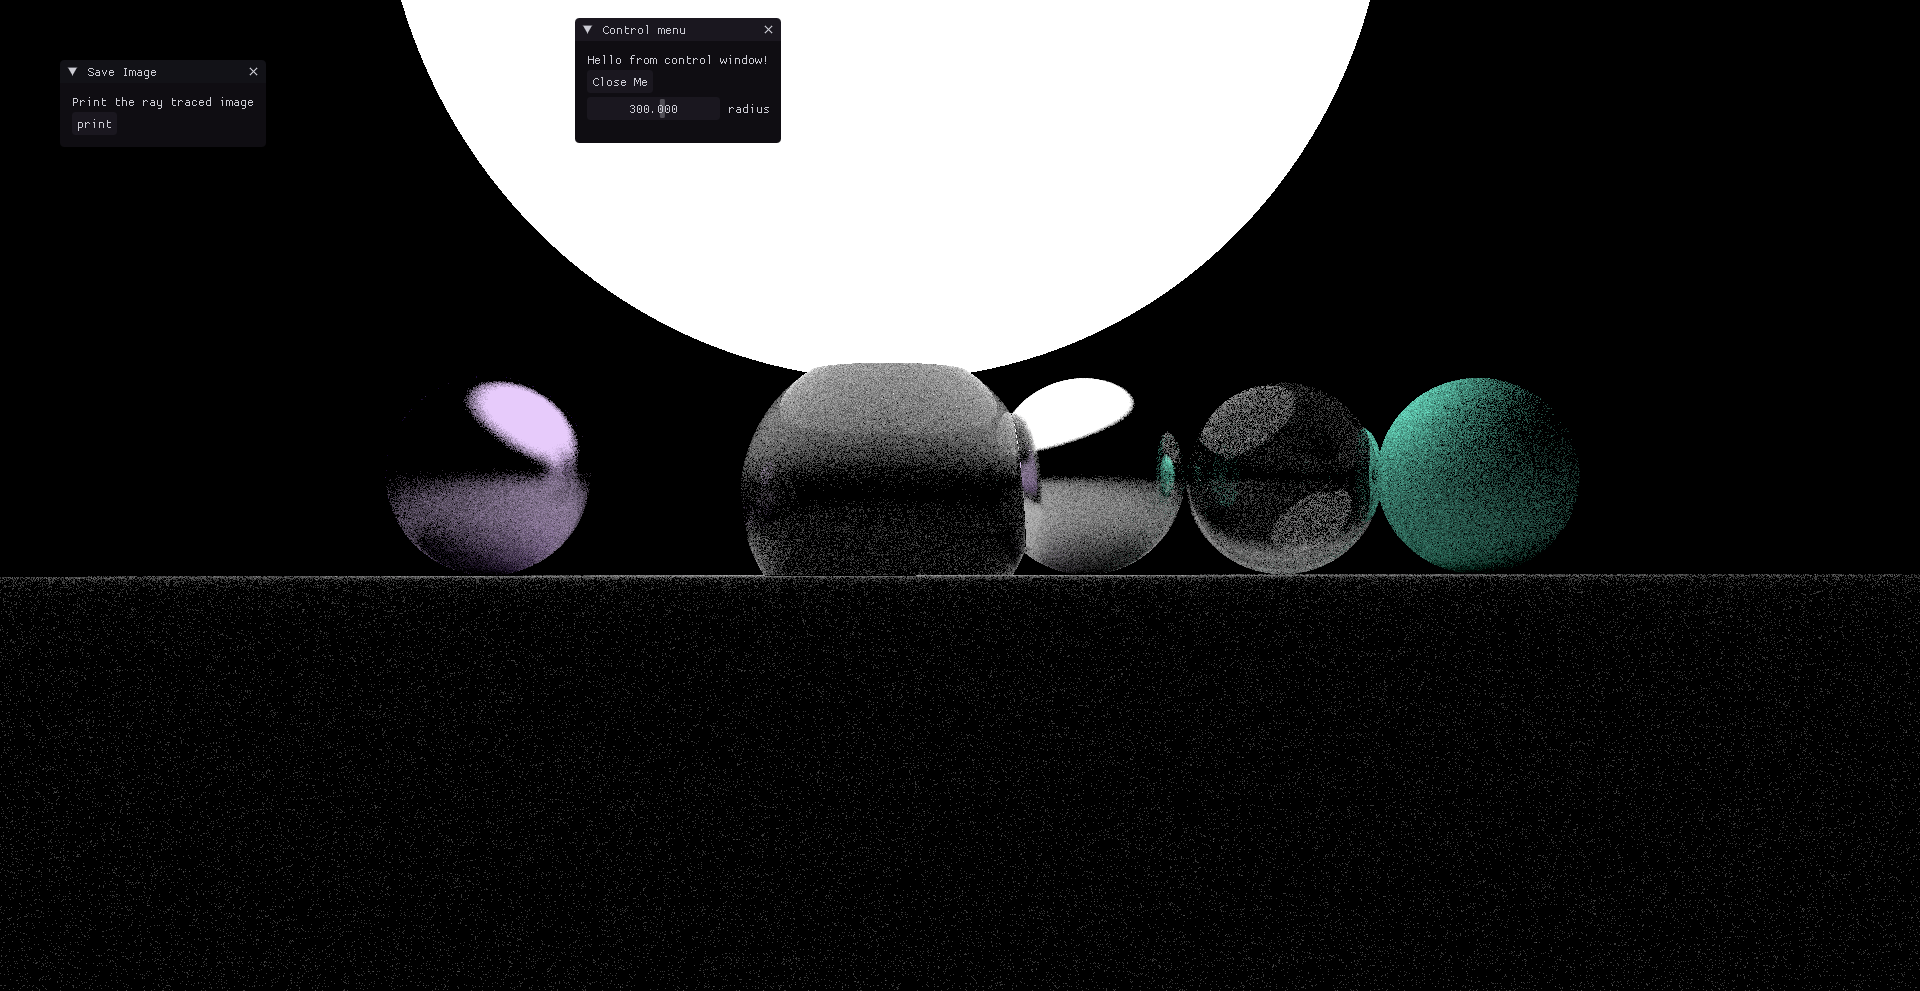
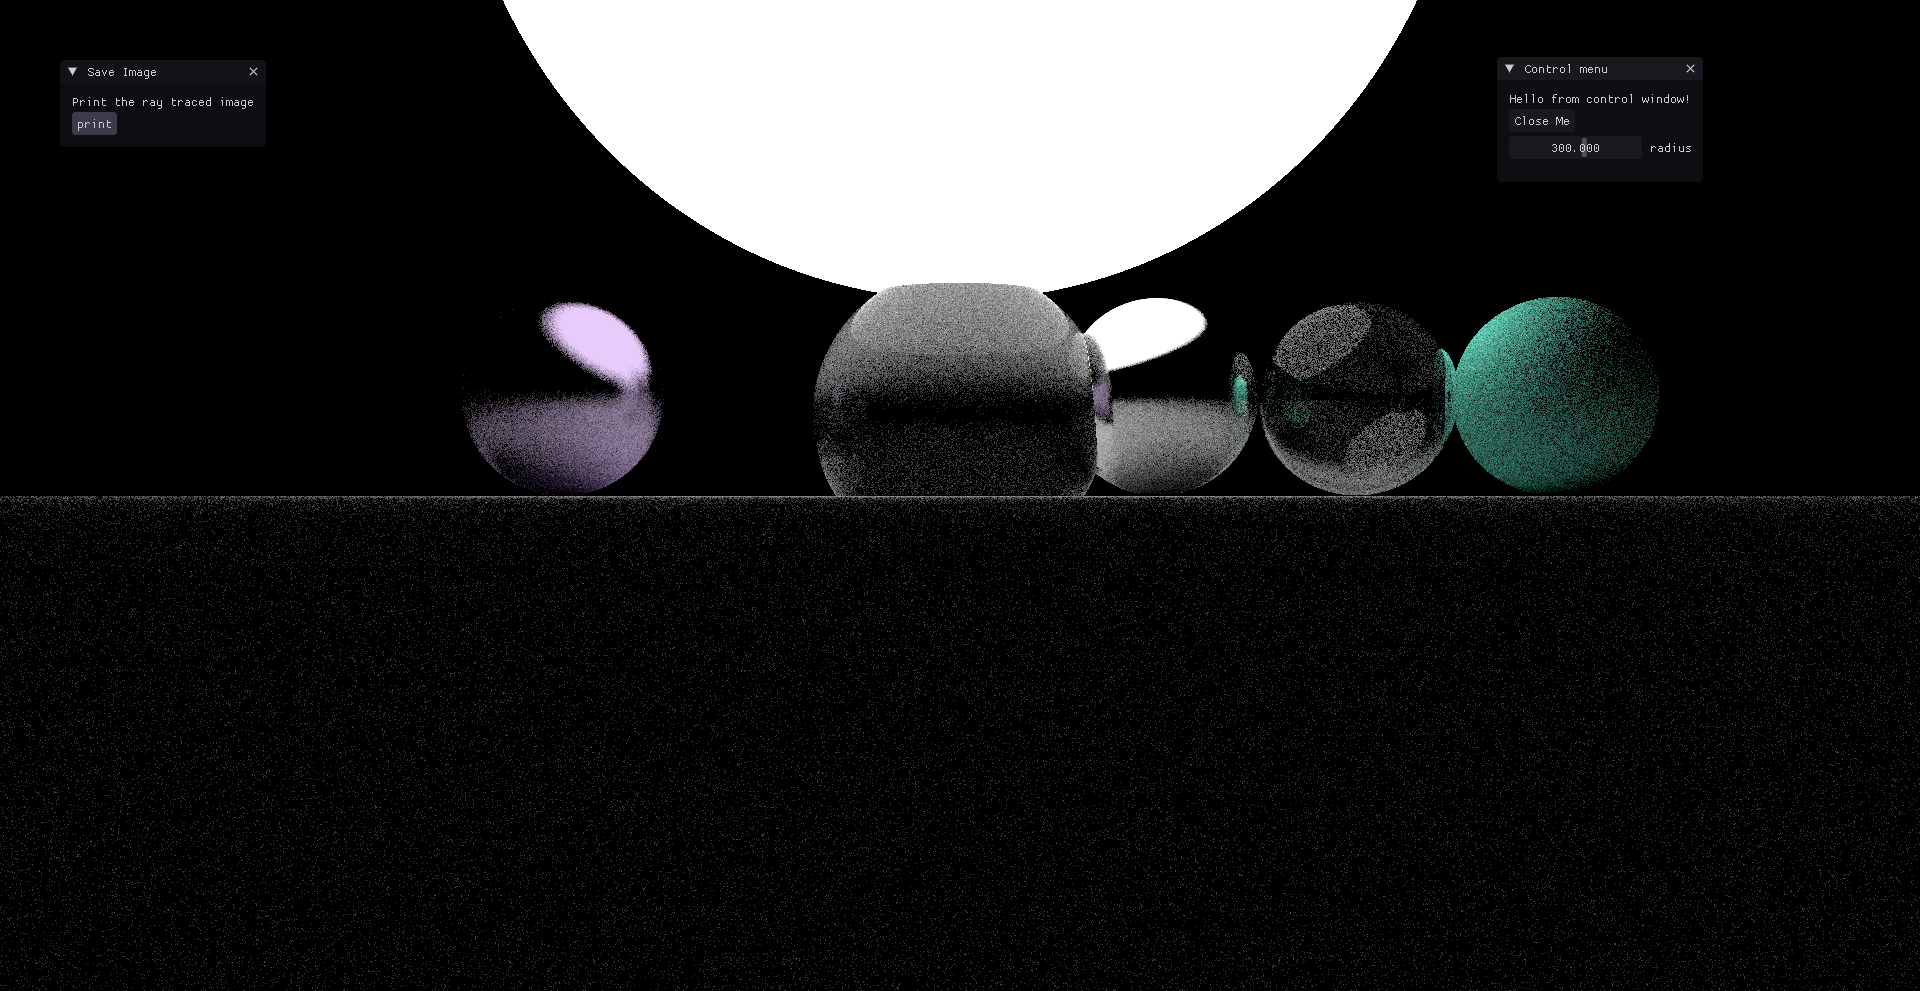
Components controlled by GUI

diff --git a/code/source.cpp b/code/source.cpp
@@ -67,12 +67,13 @@ int main()
     
     window.windowInitialize();
     GUI::init(window.window);
-    bool show_another_window=true;
+    int widgetSize=2;
+    bool showWindow[2]={true,true};
     bool print=false;
     // -----------
-
     
-    float radius= 300;
+    
+    float radius[5]= {100,100,100,100,100};
     
     pointSetUp(s1);    
     s1.useShader();    
@@ -93,9 +94,16 @@ int main()
         unsigned int resID = glGetUniformLocation(s1.ID, "iResolution");        
         glUniform2f(resID, (float)SCR_WIDTH,(float)SCR_HEIGHT);
 
-        unsigned int radvID = glGetUniformLocation(s1.ID, "sphereRadius");
-        glUniform1f(radvID, radius); 
+        // for(int i=0;i<2;i++)
+        // {
+        //     std::string radiusID="sphereRadius";
+        //     radiusID.append(std::to_string(i));
+        //     unsigned int radvID = glGetUniformLocation(s1.ID, radiusID.c_str());            
+        //     glUniform1f(radvID, radius[i]);
+        // }
 
+        glUniform1fv(glGetUniformLocation(s1.ID,"sphereRadius"),5,radius);
+                
         unsigned int cameraID = glGetUniformLocation(s1.ID, "cameraPosition");
         glUniform3fv(cameraID,1, glm::value_ptr(cameraPos)); 
 
@@ -111,12 +119,15 @@ int main()
         // render
         // ------
         
-        GUI::render(show_another_window,&radius, print);
+
+        GUI::render(showWindow, radius, print);
+
         if(print)
         {
             saveImage("imageSaved.png",window.window);
             std::cout<<"Image saved"<<std::endl;
         }
+        
             
 
         // glfw: swap buffers and poll IO events (keys pressed/released, mouse moved etc.)

diff --git a/code/gui.cpp b/code/gui.cpp
@@ -1,4 +1,5 @@
 #include "gui.h"
+#include <string>
 
 
 unsigned int SCR_WIDTH=800;
@@ -63,7 +64,13 @@ namespace GUI {
             ImGui::Text("Hello from control window!");
             if (ImGui::Button("Close Me"))
                 show_another_window = false;
-            ImGui::SliderFloat("radius",radiusValue,100.0f, 450.0f);
+            for(int i=0;i<5;i++)
+            {
+                std::string sliderID="radius";
+                sliderID.append(std::to_string(i));
+                ImGui::SliderFloat(sliderID.c_str(),&radiusValue[i],100.0f, 450.0f);
+            }
+                
             ImGui::End();
         }
     }
@@ -79,14 +86,14 @@ namespace GUI {
             ImGui::End();
         }
     }
-    void render(bool &windowDraw, float *radiusValue, bool &print ) {
-        bool showWindow=true;
+    void render(bool *windowDraw, float *radiusValue, bool &print ) {
+        
 		ImGui_ImplOpenGL3_NewFrame();
 		ImGui_ImplGlfw_NewFrame();
 		ImGui::NewFrame();
 
-        windowUI(windowDraw, radiusValue);
-		ImageUI(showWindow, print);
+        windowUI(windowDraw[0], radiusValue);
+		ImageUI(windowDraw[1], print);
 
 		ImGui::Render();
 		ImGui_ImplOpenGL3_RenderDrawData(ImGui::GetDrawData());

diff --git a/code/gui.h b/code/gui.h
@@ -49,6 +49,6 @@ namespace GUI {
 	void init(GLFWwindow* window);
 	void cleanup();
 
-	void render(bool &draw, float *radiusValue,bool &print);
+	void render(bool *draw, float *radiusValue,bool &print);
 };
 
